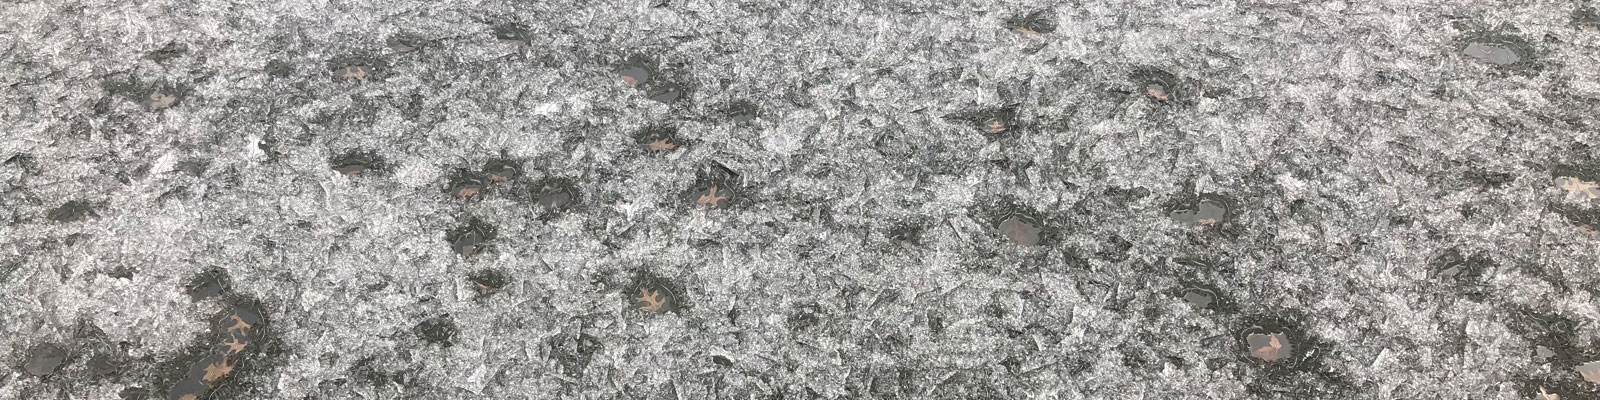
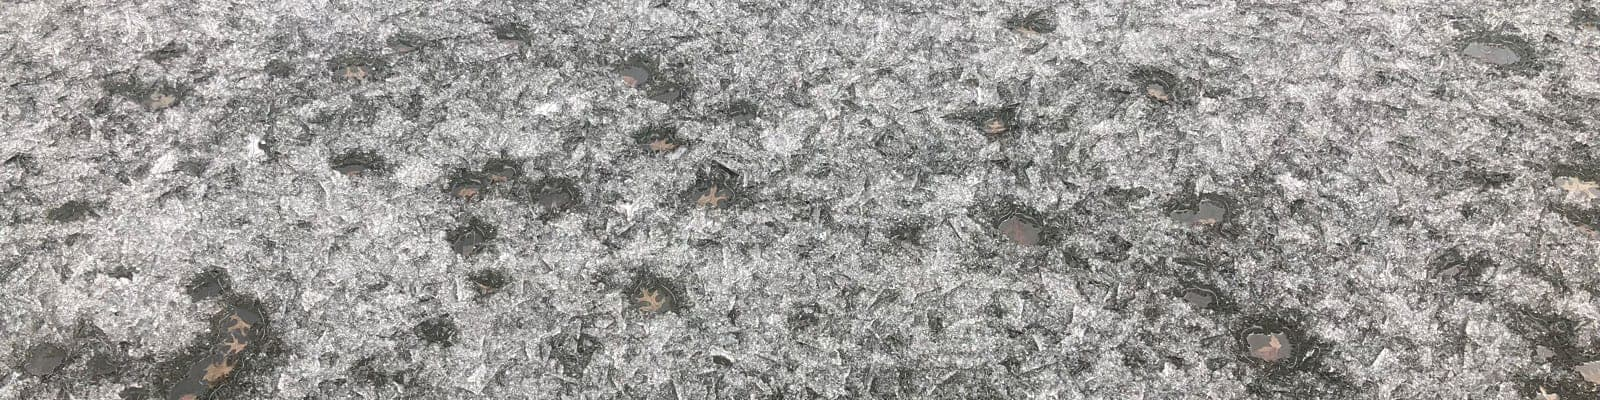
changed bg images

diff --git a/src/components/page-banner/index.js b/src/components/page-banner/index.js
@@ -22,7 +22,7 @@ const Banner = (props) => {
   const bannerStyle = {
     backgroundImage: `url(${bgImgURL})`,
     backgroundAttachment: fixedBg ? 'fixed' : 'scroll',
-    backgroundPosition: fixedBg ? 'center 180px' : 'center'
+    backgroundPosition: fixedBg ? 'center top' : 'center'
   };
 
   const btnHTML = (

diff --git a/src/components/page-banner/page-banner.module.scss b/src/components/page-banner/page-banner.module.scss
@@ -8,7 +8,7 @@
     min-height: 300px;
     background-repeat: no-repeat;
     background-attachment: scroll;
-    background-size: 1600px 300px;
+    background-size: 1600px auto;
     background-position: center;
 
     h1 {
